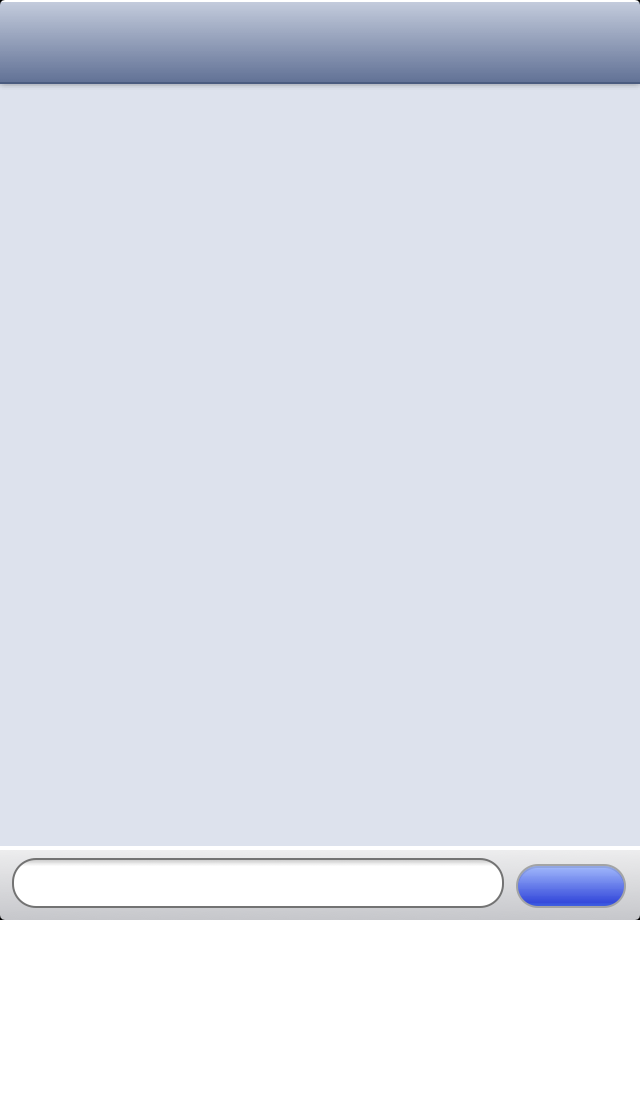
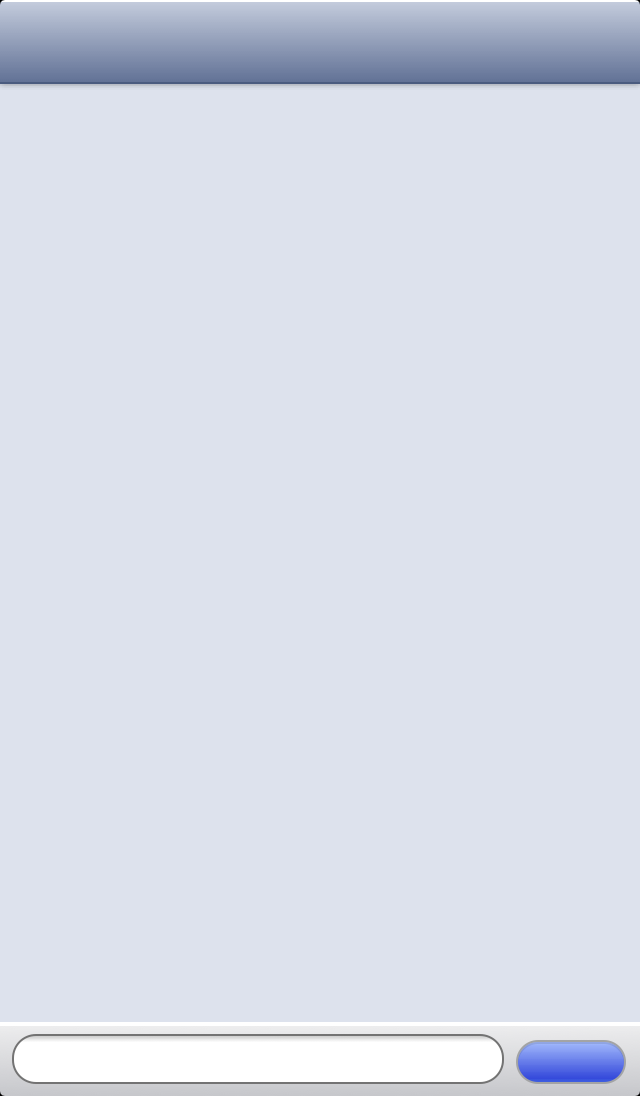
add startup images for iphone/pad

Changed region(s): [[0.0, 0.7445, 1.0, 1.0]]

diff --git a/index.html b/index.html
@@ -11,7 +11,13 @@
   <link rel="apple-touch-icon" sizes="144x144" href="images/apple-touch-icon-144x144.png">
   <link rel="shortcut icon" href="images/apple-touch-icon-114x114.png">
 
+  <link href="images/apple-touch-startup-image-320x460.png" media="(device-width: 320px)" rel="apple-touch-startup-image">
+  <link href="images/apple-touch-startup-image-640x920.png" media="(device-width: 320px) and (-webkit-device-pixel-ratio: 2)" rel="apple-touch-startup-image">
   <link href="images/apple-touch-startup-image-640x1096.png" rel="apple-touch-startup-image" sizes="640x1096">
+  <link href="images/apple-touch-startup-image-768x1004.png" media="(device-width: 768px) and (orientation: portrait)" rel="apple-touch-startup-image">
+  <link href="images/apple-touch-startup-image-748x1024.png" media="(device-width: 768px) and (orientation: landscape)" rel="apple-touch-startup-image">
+  <link href="images/apple-touch-startup-image-1536x2008.png" media="(device-width: 1536px) and (orientation: portrait) and (-webkit-device-pixel-ratio: 2)" rel="apple-touch-startup-image">
+  <link href="images/apple-touch-startup-image-2048x1496.png" media="(device-width: 1536px)  and (orientation: landscape) and (-webkit-device-pixel-ratio: 2)" rel="apple-touch-startup-image">
 
   <!-- Tile icon for Win8 (144x144 + tile color) -->
   <meta name="msapplication-TileImage" content="images/windows.png">
